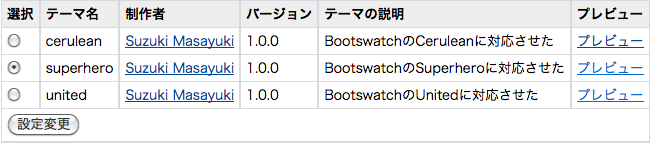
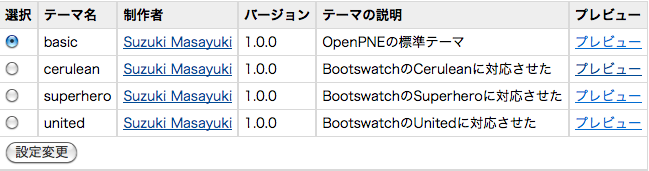
スクリンショットを追加した
デフォルトテーマを追加した、テーマ選択フォーム
superheroテーマ

diff --git a/README.md b/README.md
@@ -8,8 +8,8 @@ opSkinThemePlugin
 ### 設定フォーム
 ![SS](https://raw.github.com/suzuki-mar/opSkinThemePlugin/master/doc/img/setting.png)
 ### サンプルテーマ
-![SS](https://raw.github.com/suzuki-mar/opSkinThemePlugin/master/doc/img/united.png) ![SS](https://raw.github.com/suzuki-mar/opSkinThemePlugin/master/doc/img/cerulean.png)
-![SS](https://raw.github.com/suzuki-mar/opSkinThemePlugin/master/doc/img/basic.png)
+![SS](https://raw.github.com/suzuki-mar/opSkinThemePlugin/master/doc/img/basic.png) ![SS](https://raw.github.com/suzuki-mar/opSkinThemePlugin/master/doc/img/united.png)
+![SS](https://raw.github.com/suzuki-mar/opSkinThemePlugin/master/doc/img/cerulean.png) ![SS](https://raw.github.com/suzuki-mar/opSkinThemePlugin/master/doc/img/superhero.png)
 
 ## インストール方法
 1. 以下のコマンドを実行して、プラグインをインストールしてください。
